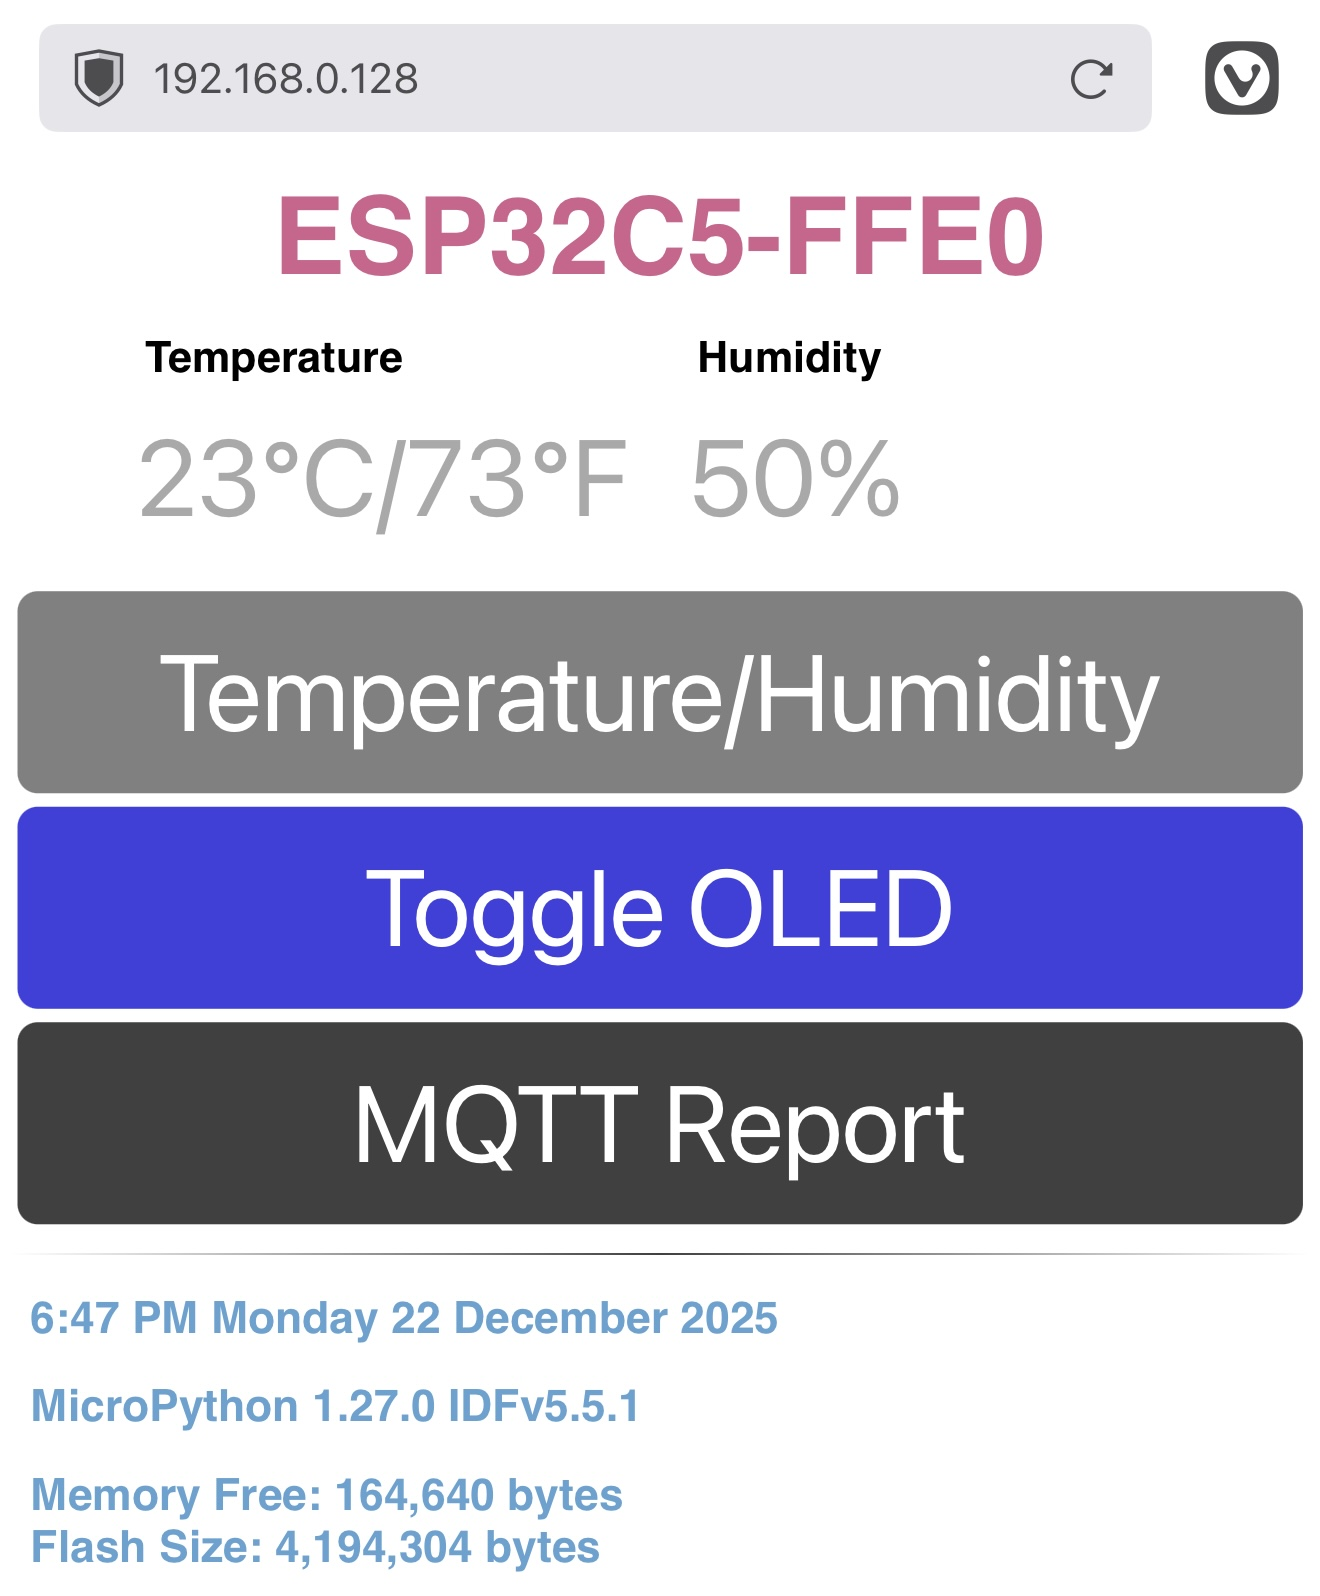
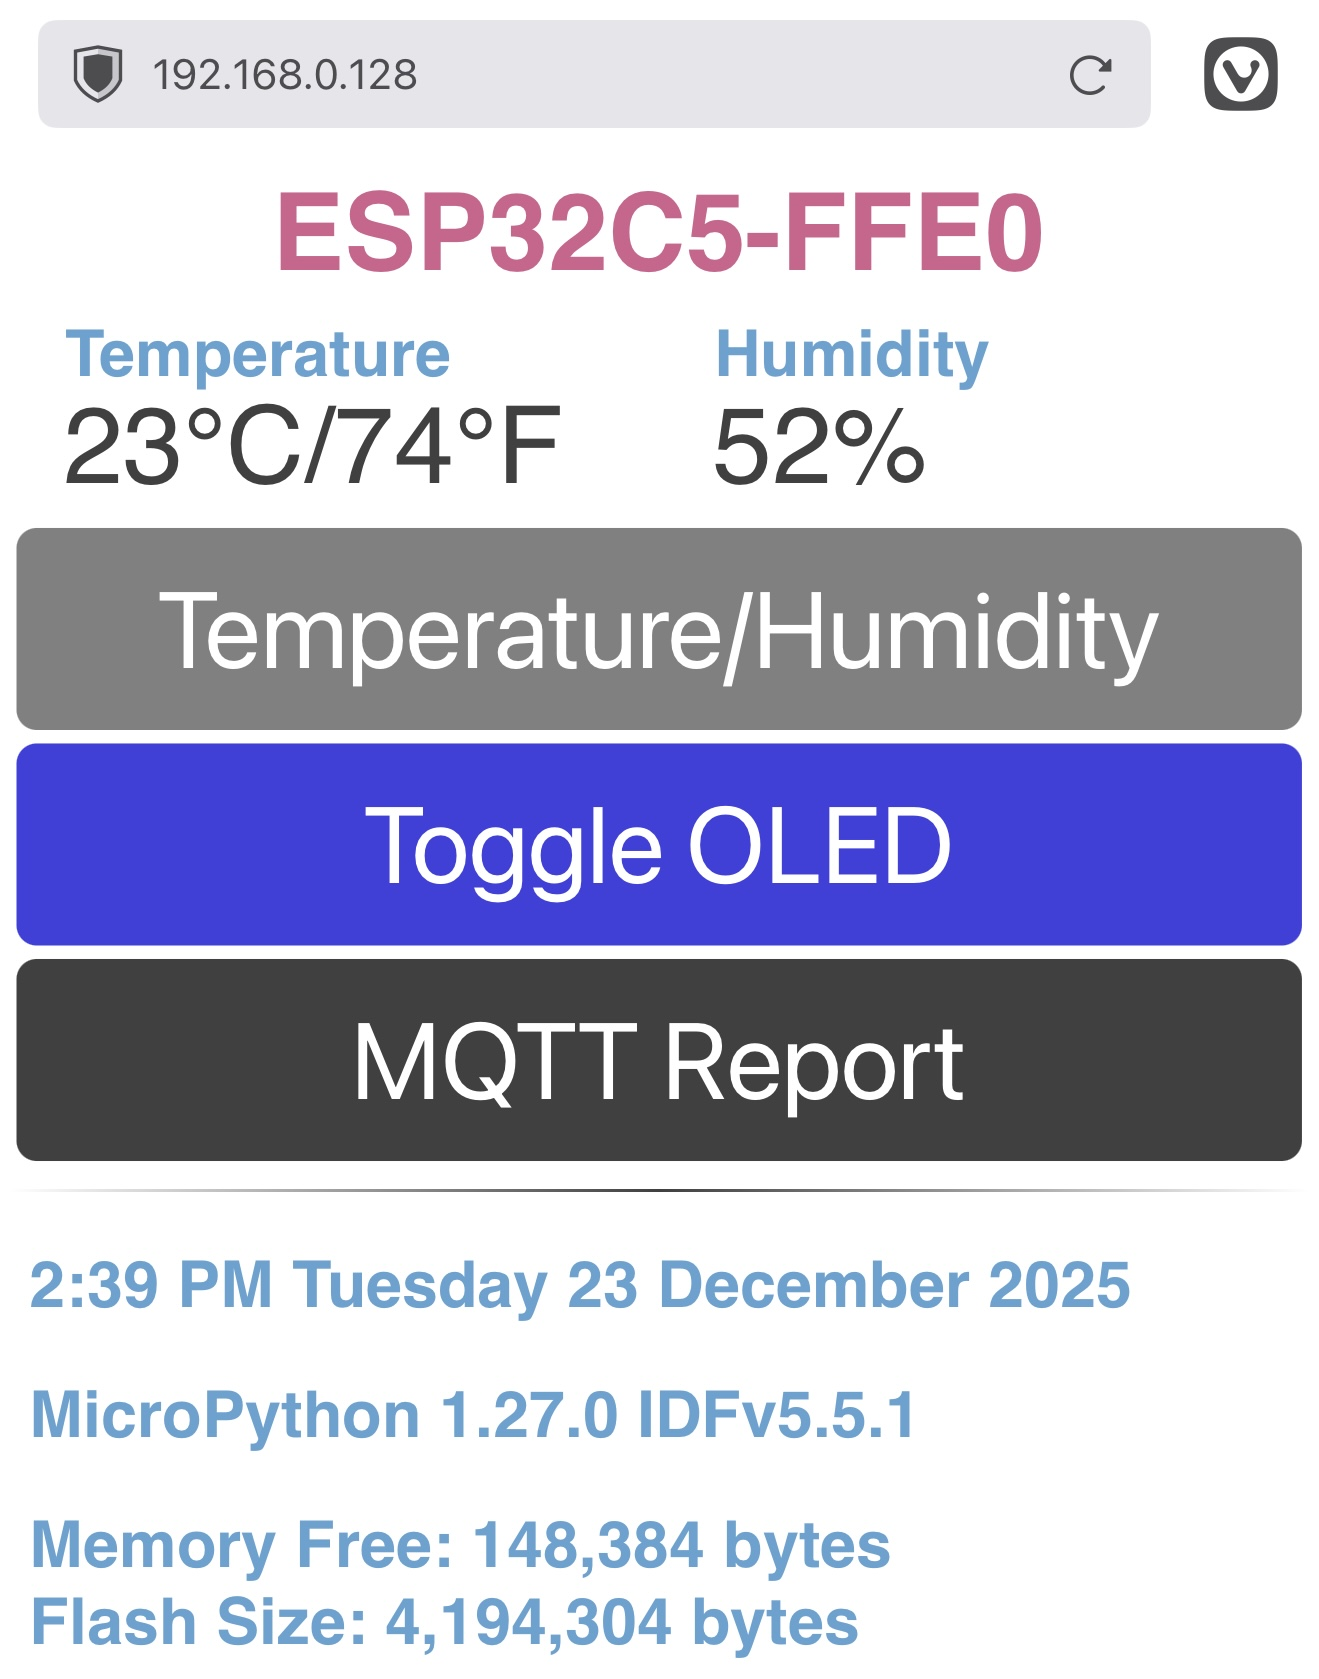
Updated ESP32C5 webpage, screenshot.

diff --git a/Espressif/ESP32C5-FFE0/webpage.py b/Espressif/ESP32C5-FFE0/webpage.py
@@ -1,17 +1,17 @@
 """
-    Copyright 2025 William H. Beebe, Jr.
+Copyright 2025 William H. Beebe, Jr.
 
-    Licensed under the Apache License, Version 2.0 (the "License");
-    you may not use this file except in compliance with the License.
-    You may obtain a copy of the License at
+Licensed under the Apache License, Version 2.0 (the "License");
+you may not use this file except in compliance with the License.
+You may obtain a copy of the License at
 
-    http://www.apache.org/licenses/LICENSE-2.0
+http://www.apache.org/licenses/LICENSE-2.0
 
-    Unless required by applicable law or agreed to in writing, software
-    distributed under the License is distributed on an "AS IS" BASIS,
-    WITHOUT WARRANTIES OR CONDITIONS OF ANY KIND, either express or implied.
-    See the License for the specific language governing permissions and
-    limitations under the License.
+Unless required by applicable law or agreed to in writing, software
+distributed under the License is distributed on an "AS IS" BASIS,
+WITHOUT WARRANTIES OR CONDITIONS OF ANY KIND, either express or implied.
+See the License for the specific language governing permissions and
+limitations under the License.
 """
 import gc
 import esp
@@ -29,13 +29,6 @@ Some parts of the web page or dynamic:
     - if there is no MQTT broker then the 'MQTT5 Test' button isn't published.
 """
 def page(SSID, DISPLAY, MQTT, DHT20):
-    VFS2 = "</h2>"
-    try:
-        vsf2 = esp32.Partition('vfs2')
-        vfs2_size = vsf2.info()[3]
-        VFS2 = f"<br />vfs2 size: {vfs2_size:,} bytes</h2>"
-    except:
-        pass
     
     OLED_BUTTON=""
     if DISPLAY is not None:
@@ -58,11 +51,11 @@ def page(SSID, DISPLAY, MQTT, DHT20):
         display: inline-block;
         margin: 0px auto;
         }}
+
     .container {{
         display: flex;
         gap: 20px;
-        padding: 20px;
-        max-width: 800px;
+        padding: 10px;
         margin: 0 auto;
     }}
 
@@ -74,20 +67,19 @@ def page(SSID, DISPLAY, MQTT, DHT20):
     .text-box label {{
         position: absolute;
         top: -50px;
-        left: 10px;
-        background-color: white;
-        padding: 0 8px;
+        left: 0px;
+        border: 1px solid #fff;
+        padding: 0 30px;
+        color: #5FA3D3;
         font-weight: bold;
-        font-size: 200%;
-        z-index: 1;
+        font-size: 300%;
     }}
 
-    .text-box input {{
+    .text-box output {{
         width: 100%;
-        padding: 10px;
-        border: 1px solid #fff;
-        border-top-width: 0;
-        border-radius: 0 0 4px 4px;
+        border: 10px solid #fff;
+        padding: 0 20px;
+        color: #404040;
         font-size: 500%;
     }}
 
@@ -125,24 +117,25 @@ def page(SSID, DISPLAY, MQTT, DHT20):
     .button-oled {{
         background-color: #4040E0;
         }}
+
     hr {{
         border: 0;height: 2px;
         background-image: linear-gradient(to right, rgba(0, 0, 0, 0), rgba(0, 0, 0, 0.75), rgba(0, 0, 0, 0));
         }}
     h1 {{font-size: 500%;color: #D35F8D;text-align: center;}}
-    h2 {{font-size: 200%;color: #5FA3D3;padding-left: 15px;}}
+    h2 {{font-size: 300%;color: #5FA3D3;padding-left: 15px;}}
     </style>
     </head>
     <body>
     <h1>{SSID}</h1>
     <div class="container">
         <div class="text-box">
-            <label for="name">Temperature</label>
-            <input type="text" id="temperature" placeholder="{temp_text}" readonly>
+            <label  for="temperature">Temperature</label>
+            <output for="temperature">{temp_text}</output>
         </div>
         <div class="text-box">
-            <label for="lastName">Humidity</label>
-            <input type="text" id="humidity" placeholder="{humi_text}" readonly>
+            <label  for="humidity">Humidity</label>
+            <output for="humidity">{humi_text}</output>
         </div>
     </div>
     <form accept-charset="utf-8" method="POST">
@@ -157,8 +150,7 @@ def page(SSID, DISPLAY, MQTT, DHT20):
     <h2>{ttools.formatted_time()}</h2>
     <h2>{config.version_name} {config.compiler}</h2>
     <h2>Memory Free: {gc.mem_free():,} bytes<br />
-    Flash Size: {esp.flash_size():,} bytes
-    {VFS2}
+    Flash Size: {esp.flash_size():,} bytes</h2>
     </body>
     </html>
     """
